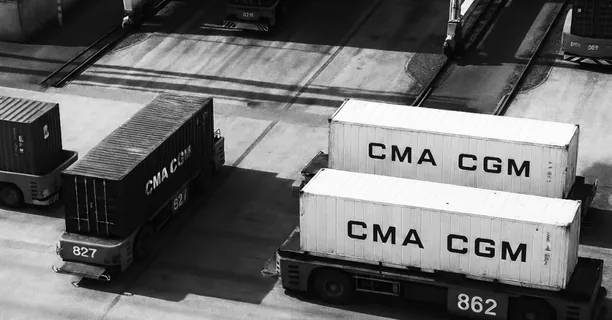
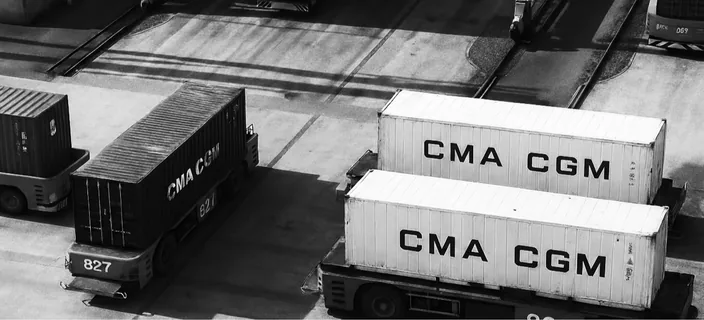
TMS case: redesigned section 03, new Stop 04 layout
Section 03 (Figma 113:12880): header row with body, then a 2 x 2 grid of
three insight cards (Insight 1 dark) and the containers photo (157:13855),
re-exported with Figma's crop. One column below 760: cards, then photo.
Removes InsightRow and the reveal styles only it used.

Stop 04 (120:13531): image 28 moves to (80, 177), image 34 to (706, 405.5),
the invoice note to (1080, 321). Pin, note order and thresholds unchanged.

diff --git a/src/data/cases/tms.ts b/src/data/cases/tms.ts
@@ -88,6 +88,13 @@ export interface SectionCopy {
   body?: string
 }
 
+/** A research insight card (157:13744): label and statement; `dark` = ink card, `light` = #fafafa. */
+export interface InsightCard {
+  label: string
+  text: string
+  tone: 'dark' | 'light'
+}
+
 export interface Photo {
   src1x: string
   src2x: string
@@ -217,27 +224,28 @@ export const tmsCase = {
     ],
   },
 
-  /** 113:12880 */
+  /** 113:12880 "03 Approach": header row (157:13793), then a 2 × 2 grid (113:12886) of three insight cards and the photo. */
   research: {
     copy: {
       id: 'research',
       eyebrow: 'The research',
-      heading: 'Start from the work, not the screens',
+      heading: ['The work before', 'the screens'],
       body: 'Before drawing anything I mapped who touches a shipment and what each of them needs to get done in a day. I compared four tools teams already use (CargoWise, SAP TM, Magaya and Bitrix24) and read their user reviews on G2. The pattern: every feature exists, but the tools are slow to learn, overloaded, and the same for every role. That gave the design three rules.',
     } satisfies SectionCopy,
+    /** 157:13744 (dark), 157:13740, 157:13852. Figma's layer names say "Insignt"; the visible label is "Insight". */
+    insights: [
+      { label: 'Insight 1', text: 'Reviewers value having every shipment detail in one place', tone: 'dark' },
+      { label: 'Insight 2', text: 'The top complaint: long onboarding and overloaded screens', tone: 'light' },
+      { label: 'Insight 3', text: 'Every role is forced into the same rigid views', tone: 'light' },
+    ] satisfies InsightCard[],
+    /** 157:13855: the grid's fourth cell, 704 × 320 at 1512. */
     photo: {
       src1x: researchPhoto1x,
       src2x: researchPhoto2x,
       alt: 'Two CMA CGM containers on terminal trucks',
-      width: 612,
+      width: 704,
       height: 320,
     } satisfies Photo,
-    /** 113:12886 */
-    insights: [
-      { label: 'Insight 1', insight: 'Reviewers value having every shipment detail in one place', principle: 'One source of truth per shipment' },
-      { label: 'Insight 2', insight: 'The top complaint: long onboarding and overloaded screens', principle: 'A calm UI with onboarding tips' },
-      { label: 'Insight 3', insight: 'Every role is forced into the same rigid views', principle: 'A different starting point for each role' },
-    ],
   },
 
   stops: {
@@ -359,7 +367,7 @@ export const tmsCase = {
             src1x: stop04Shipment1x,
             src2x: stop04Shipment2x,
             alt: 'Shipment page, Financial terms tab: customer, payer, payment status, rate and the expenses table',
-            box: { x: 42.609, y: 201.169, width: 834.783, height: 542.167 },
+            box: { x: 80, y: 177.169, width: 834.783, height: 542.167 },
             radius: 24,
             stroke,
           },
@@ -367,14 +375,14 @@ export const tmsCase = {
             src1x: stop04Invoice1x,
             src2x: stop04Invoice2x,
             alt: 'Invoice FIFO-002 generated from the shipment data, open over the shipment page with Save and export buttons',
-            box: { x: 705.699, y: 405.471, width: 676.488, height: 439.359 },
+            box: { x: 706, y: 405.471, width: 676.488, height: 439.359 },
             radius: 24,
             stroke,
           },
         ],
         notes: [
           { text: 'Header stays put, tabs change below it', x: 80, y: 93, width: 355 },
-          { text: 'Invoice built from shipment data', x: 1050, y: 823, width: 302 },
+          { text: 'Invoice built from shipment data', x: 1080, y: 321, width: 302 },
         ],
       } satisfies StageData,
     },

diff --git a/src/cases/tms/TmsCase.tsx b/src/cases/tms/TmsCase.tsx
@@ -7,7 +7,6 @@ import SectionHeader from '../../components/SectionHeader/SectionHeader.tsx'
 import Stage, { StageShot } from '../../components/Stage/Stage.tsx'
 import { placeIn } from '../../components/Stage/placeIn.ts'
 import StatCard from '../../components/StatCard/StatCard.tsx'
-import InsightRow from '../../components/InsightRow/InsightRow.tsx'
 import RevealText from '../../components/RevealText/RevealText.tsx'
 import { tmsCase } from '../../data/cases/tms.ts'
 import type { Photo, SectionCopy } from '../../data/cases/tms.ts'
@@ -124,7 +123,7 @@ export default function TmsCase() {
 
   useHeroStage(heroCanvasRef, dashboardRef, 0.85)
   useCountUp(statsRef, { after: problemTrackRef }) // only after the section 02 pin has released
-  useReveal(insightsRef, { selector: '.insight-row', batchStagger: 200 })
+  useReveal(insightsRef, { selector: '.insight-card', batchStagger: 200 })
   useScrollReveal(resultRef)
 
   // Tells the inline script in work/tms.html that motion is wired up (otherwise it drops .motion).
@@ -221,18 +220,29 @@ export default function TmsCase() {
           </ul>
         </section>
 
-        {/* 03 The research 113:12880 */}
-        <section id={research.copy.id} className="case-section" aria-labelledby={headingId(research.copy)}>
-          <SectionHeader id={headingId(research.copy)} eyebrow={research.copy.eyebrow} heading={research.copy.heading} />
-          <div className="case-media">
+        {/* 03 The research 113:12880: header row, then insight cards and the photo in a 2 × 2 grid */}
+        <section id={research.copy.id} className="case-section case-section--research" aria-labelledby={headingId(research.copy)}>
+          <SectionHeader
+            id={headingId(research.copy)}
+            eyebrow={research.copy.eyebrow}
+            heading={research.copy.heading}
+            body={research.copy.body}
+          />
+          <div className="research-grid">
+            <ol ref={insightsRef} className="research-grid__insights">
+              {research.insights.map((item) => (
+                <li key={item.label} className={`insight-card insight-card--${item.tone}`} data-enter>
+                  <p className="insight-card__label" data-reveal style={{ '--i': 0 } as CSSProperties}>
+                    {item.label}
+                  </p>
+                  <p className="insight-card__text" data-reveal style={{ '--i': 1 } as CSSProperties}>
+                    {item.text}
+                  </p>
+                </li>
+              ))}
+            </ol>
             <CasePhoto photo={research.photo} />
-            <p className="case-media__text">{research.copy.body}</p>
           </div>
-          <ol ref={insightsRef} className="case-insights">
-            {research.insights.map((item) => (
-              <InsightRow key={item.label} item={item} />
-            ))}
-          </ol>
         </section>
 
         <Stop01Scene />

diff --git a/src/cases/tms/TmsCase.css b/src/cases/tms/TmsCase.css
@@ -166,9 +166,57 @@
   gap: var(--gap-case-card);
 }
 
-/* 113:12886 */
-.case-insights {
-  margin-top: var(--gap-case-media);
+/* 03 113:12880: 80 below the header row, a 2 × 2 grid (113:12886), 24 apart: three insight cards and the
+   photo (157:13855). Rows are equal and at least the photo's Figma height (704 × 320 per column at
+   1512), so the photo keeps Figma's crop and the cards match it; longer text grows both rows. */
+.case-section--research {
+  container-type: inline-size;
+}
+
+.research-grid {
+  display: grid;
+  grid-template-columns: repeat(2, minmax(0, 1fr));
+  grid-auto-rows: minmax(calc((100cqw - var(--gap-case-card)) * 160 / 704), 1fr);
+  gap: var(--gap-case-card);
+  margin-top: var(--gap-case-header);
+}
+
+.research-grid__insights {
+  display: contents;
+}
+
+/* 157:13744 / 157:13740: padding 56 top, 28 bottom, 32 sides (scaled with the stat cards' 32); label
+   Inter Medium 20/26 grey, 32 above the statement, Inter SemiBold 40/48. */
+.insight-card {
+  display: flex;
+  flex-direction: column;
+  gap: var(--gap-m);
+  padding: calc(var(--space-case-card) * 56 / 32) var(--space-case-card) calc(var(--space-case-card) * 28 / 32);
+  background: var(--color-panel);
+  color: var(--color-ink);
+}
+
+.insight-card--dark {
+  background: var(--color-ink);
+  color: var(--color-cream);
+}
+
+.insight-card__label {
+  color: var(--color-muted);
+  font-size: var(--fs-meta);
+  line-height: calc(26 / 20);
+}
+
+.insight-card__text {
+  font-size: var(--fs-display-m);
+  font-weight: var(--fw-semibold);
+  line-height: var(--lh-display-m);
+}
+
+/* Fills its cell (width and height both set, so the inline aspect ratio doesn't widen it). */
+.research-grid .case-photo {
+  width: 100%;
+  height: 100%;
 }
 
 /* --- 02 scene 113:12853 (motion note 124:15) ---
@@ -522,8 +570,31 @@
     margin-top: var(--m-gap-m);
   }
 
-  .case-insights {
-    margin-top: var(--m-gap-l);
+  /* 03: one column — Insight 1, 2, 3, then the photo at Figma's 704:320. Cards size to their text. */
+  .research-grid {
+    grid-template-columns: minmax(0, 1fr);
+    grid-auto-rows: auto;
+    gap: var(--m-gap-xs);
+    margin-top: var(--m-gap-m);
+  }
+
+  .insight-card {
+    gap: var(--m-gap-xs);
+    padding: var(--m-gap-m) var(--m-gap-s);
+  }
+
+  .insight-card__label {
+    font-size: var(--m-fs-label);
+    line-height: var(--m-lh-label);
+  }
+
+  .insight-card__text {
+    font-size: var(--m-fs-principle);
+    line-height: var(--m-lh-principle);
+  }
+
+  .research-grid .case-photo {
+    height: auto;
   }
 
   .case-result {

diff --git a/src/motion/motion.css b/src/motion/motion.css
@@ -12,25 +12,12 @@
     transform: translateY(var(--reveal-distance));
   }
 
-  .motion [data-enter] [data-reveal='fade'] {
-    transform: none;
-  }
-
-  /* Draw: a left → right wipe (insight arrows). */
-  .motion [data-enter] [data-reveal='draw'] {
-    opacity: 1;
-    transform: none;
-    clip-path: inset(0 100% 0 0);
-  }
-
   .motion [data-enter][data-entered] [data-reveal] {
     opacity: 1;
     transform: none;
-    clip-path: inset(0);
     transition:
       opacity var(--dur-reveal) var(--ease-out),
-      transform var(--dur-reveal) var(--ease-out),
-      clip-path var(--dur-draw) var(--ease-out);
+      transform var(--dur-reveal) var(--ease-out);
     transition-delay: calc(var(--enter-delay, 0ms) + var(--i, 0) * var(--stagger, var(--stagger-reveal)));
   }
 

diff --git a/CLAUDE.md b/CLAUDE.md
@@ -14,7 +14,7 @@ Home page plus static case-study pages. Vite + React + TypeScript (multi-page), 
 ## Pages and config
 
 - **Home** `index.html` → `src/App.tsx`: **Hero → About → Works → Contact**. Anchors `#home` (not in the nav), `#about`, `#works`, `#contact`; nav About, Works, Get in touch.
-- **TMS case** `work/tms.html` → `src/cases/tms/` (`main.tsx`, `TmsCase.tsx`, `StopScenes.tsx`), served at `/work/tms`. Sections: Hero (tagline, h1, "(03)", meta, teal dashboard stage) → 01 The project → 02 The problem (tools → one window scene, stats) → 03 The research (insight rows) → Stops 01–05 → No dead ends → The result → "← Back to all work".
+- **TMS case** `work/tms.html` → `src/cases/tms/` (`main.tsx`, `TmsCase.tsx`, `StopScenes.tsx`), served at `/work/tms`. Sections: Hero (tagline, h1, "(03)", meta, teal dashboard stage) → 01 The project → 02 The problem (tools → one window scene, stats) → 03 The research (header row, then a 2 × 2 grid: three insight cards and the photo) → Stops 01–05 → No dead ends → The result → "← Back to all work".
 - One HTML entry per case (`vite.config.ts` inputs + `src/entry-server.tsx` pages); `/work/<slug>` resolves to `work/<slug>.html` (Vite) and via `cleanUrls` (`vercel.json`). No router.
 - **Site URL**: `site.config.ts` `SITE_URL` is the only place it is set. Vite fills `%SITE_URL%` in both HTML files (canonical, `og:url`, absolute `og:image`). Currently the Vercel production domain `https://anastasiia-cheban.vercel.app`; `public/robots.txt` and `public/sitemap.xml` repeat it by hand, so change all three together (e.g. for an own domain).
 - **Meta** lives in the HTML files: home title "Anastasiia Cheban — UX/UI & Product Designer" (og:type website); case "TMS platform for a logistics company — Anastasiia Cheban" (og:type article). Both: description, og:title/description/url/image (+ width/height/alt), `twitter:card` summary_large_image, `lang="en"`, icons and `site.webmanifest`.
@@ -34,7 +34,7 @@ Home page plus static case-study pages. Vite + React + TypeScript (multi-page), 
 
 ## Case components
 
-`CaseNav` / `CaseLink`, `SectionHeader` (eyebrow / h2 lines / body; side by side from 760), `Stage` (fixed-ratio canvas; Figma px → % via `placeIn`; `--u` = one Figma px of the stage via `cqw`; `StageShot`; `MarginNote` anchored to the nearer edge), `StatCard` (`<data value>` + aria-hidden count-up copy), `InsightRow`, `HandoffFlow` (dark copy per step for the travelling fill), `RevealText` (shared with home About).
+`CaseNav` / `CaseLink`, `SectionHeader` (eyebrow / h2 lines / body; side by side from 760), `Stage` (fixed-ratio canvas; Figma px → % via `placeIn`; `--u` = one Figma px of the stage via `cqw`; `StageShot`; `MarginNote` anchored to the nearer edge), `StatCard` (`<data value>` + aria-hidden count-up copy), `HandoffFlow` (dark copy per step for the travelling fill), `RevealText` (shared with home About).
 
 ## Styles and tokens
 
@@ -56,7 +56,7 @@ Native `position: sticky` inside a taller track; no scroll hijacking, scroll-sna
 - `src/hooks/`: `useMediaQuery` (+ `DESKTOP_QUERY` / `PINNED_QUERY` / `FINE_HOVER_QUERY` / `REDUCED_MOTION_QUERY`, matching the CSS), `useActiveProject`, `useCursorFollow`, `usePinProgress`.
 - `src/motion/` (case page, Figma motion notes 124:2):
   - `observeEnter` (IntersectionObserver, fires once; immediately for content already in view or above), `scrollLoop` (one passive scroll listener + rAF; geometry only on measure/resize).
-  - `hooks.ts`: `useReveal` (section headers, insight rows), `useCountUp` (stats, after the section 02 pin releases), `useParallax` (01/03 photos), `useHeroStage` (0.96 → 1 + 0.85× dashboard drift; final on restored loads), `useScrollReveal` (The result).
+  - `hooks.ts`: `useReveal` (section headers, insight cards), `useCountUp` (stats, after the section 02 pin releases), `useParallax` (01/03 photos), `useHeroStage` (0.96 → 1 + 0.85× dashboard drift; final on restored loads), `useScrollReveal` (The result).
   - `toolsScene.ts`: section 02 — desktop cards fly into the window; below 760 a "drop-in" (pills fall straight onto their rows, `drop` in `tms.ts`). Same timing: start 0.12 + i × 0.13, flight 0.2, rows at k > 0.9, settle p 0.8–0.95, label p > 0.9.
   - `stageScene.ts`: `useStageScene` (pinned stops, p from scroll), `useTimedScene` (unpinned mobile stops, p from a timeline on enter), `span()` to reuse layer functions. Layers are `[data-layer]` elements; the markup is the final state; `.scene-only` layers exist only while a scene runs.
   - Start states live in `motion.css` under `html.motion`, set before first paint by the inline script in `work/tms.html` (dropped after 4 s without `data-motion-ready`). Hero title/tagline/meta are CSS keyframes.
